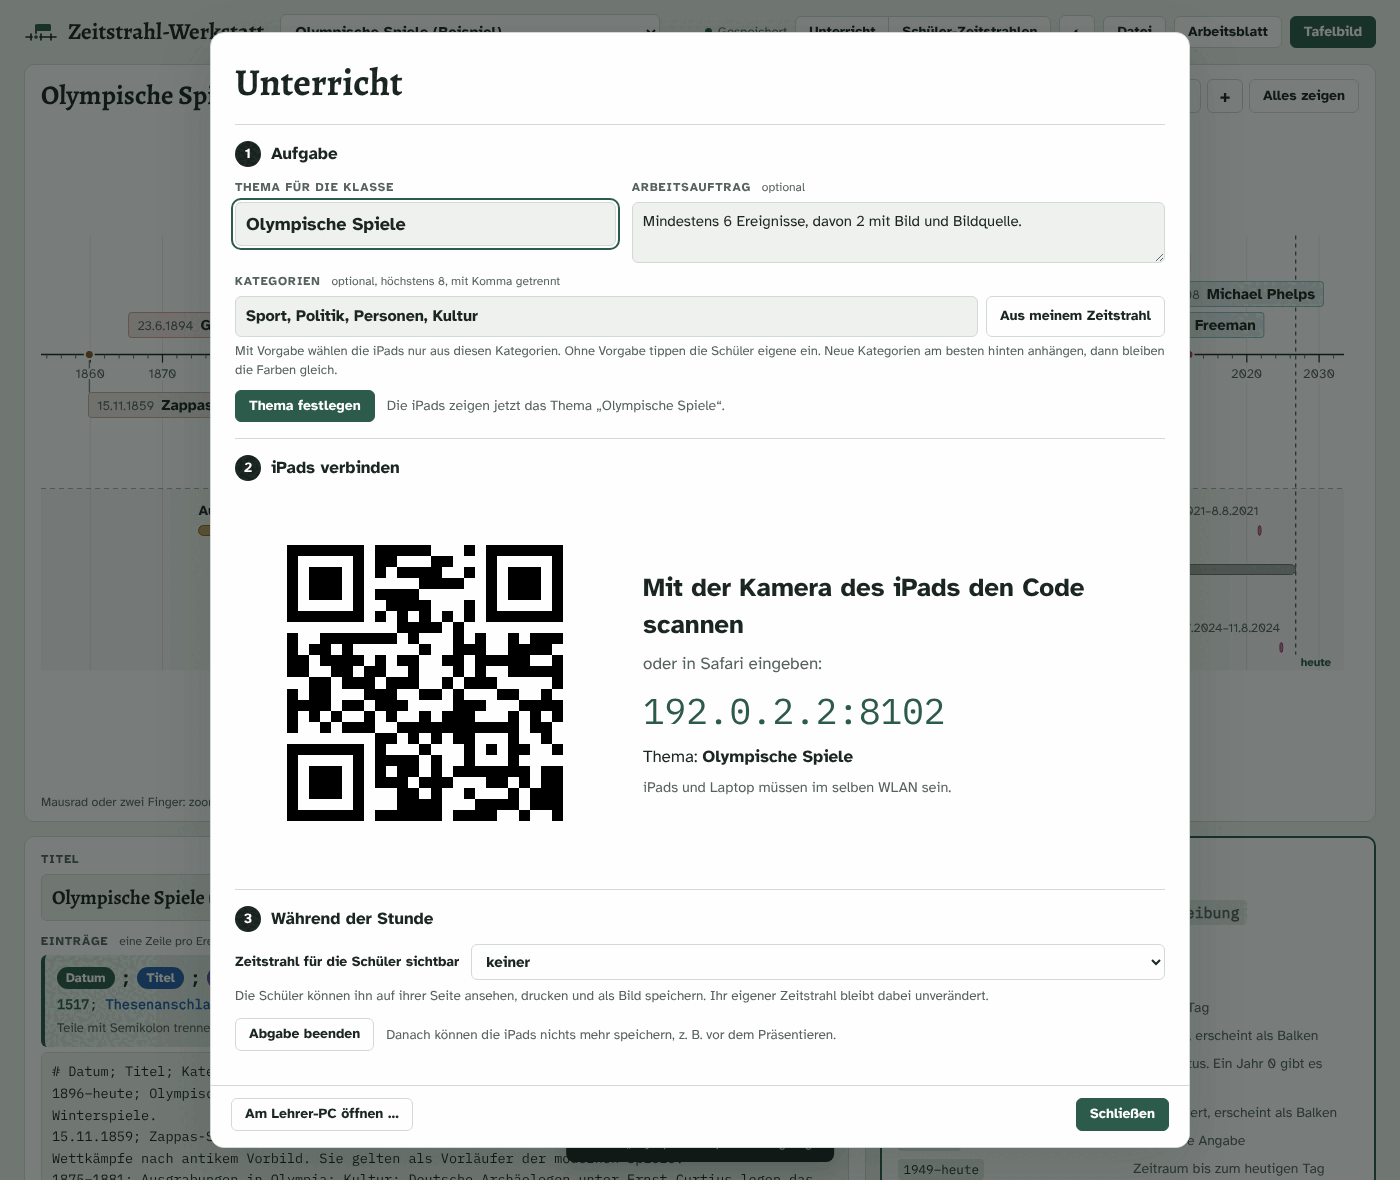
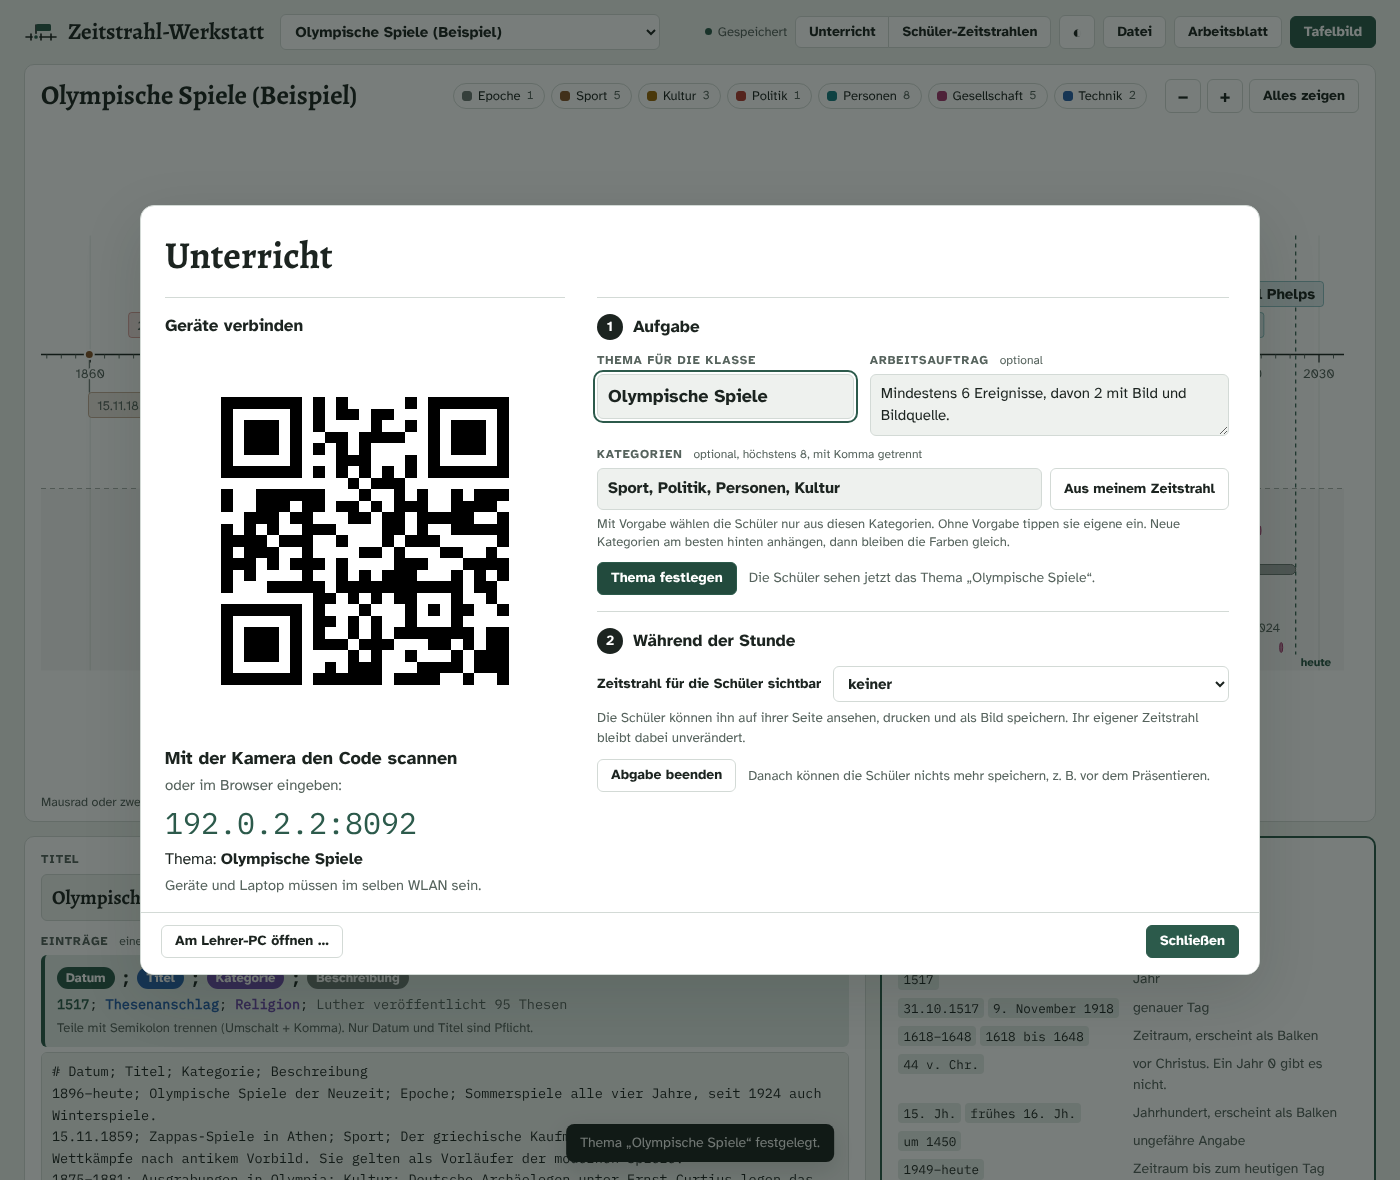
Unterricht: QR-Code fest in einer linken Spalte, Texte geräteneutral
Der QR-Code stand unter der Aufgabe und war beim Öffnen oft nur halb
zu sehen, schon bei 1920×1080 mit Skalierung. Jetzt stehen QR-Code,
Adresse, Thema und WLAN-Hinweis links fest, Aufgabe und „Während der
Stunde“ scrollen rechts. In schmalen Fenstern steht alles untereinander,
der Code zuerst. Die scrollende Spalte schneidet den Fokusrahmen der
Felder nicht mehr ab.

Die Texte nennen keine iPads und kein Safari mehr („Geräte verbinden“,
„im Browser eingeben“, „die Schüler“). README-Text und -Bild angepasst.

Claude-Session: https://claude.ai/code/session_01RTf6zZnb2jjZWV9wELwaxo

diff --git a/index.html b/index.html
@@ -211,61 +211,65 @@
   </div>
 </dialog>
 
-<dialog id="connect" class="connect" aria-labelledby="connect-title">
+<dialog id="connect" class="connect unterricht" aria-labelledby="connect-title">
   <h2 id="connect-title">Unterricht</h2>
-  <section class="connect-part" aria-labelledby="part-aufgabe">
-    <h3 id="part-aufgabe"><span class="part-num">1</span> Aufgabe</h3>
-    <form class="task-form" id="task-form">
-      <div class="field">
-        <label for="task-thema">Thema für die Klasse</label>
-        <input id="task-thema" type="text" maxlength="140" autocomplete="off" placeholder="z. B. Reformation">
-      </div>
-      <div class="field">
-        <label for="task-auftrag">Arbeitsauftrag <span class="label-note">optional</span></label>
-        <textarea id="task-auftrag" rows="2" maxlength="1000" placeholder="z. B. Mindestens 6 Ereignisse, davon 2 mit Bild und Bildquelle."></textarea>
-      </div>
-      <div class="field task-kat">
-        <label for="task-kategorien">Kategorien <span class="label-note">optional, höchstens 8, mit Komma getrennt</span></label>
-        <div class="task-kat-row">
-          <input id="task-kategorien" type="text" maxlength="400" autocomplete="off" placeholder="z. B. Politik, Religion, Personen, Bauwerke">
-          <button type="button" class="btn" id="task-kat-uebernehmen">Aus meinem Zeitstrahl</button>
+  <div class="unterricht-body">
+    <section class="connect-part connect-ipads" aria-labelledby="part-ipads">
+      <h3 id="part-ipads">Geräte verbinden</h3>
+      <div class="connect-grid" id="connect-grid">
+        <div id="connect-qr" class="connect-qr"></div>
+        <div class="connect-text">
+          <p class="connect-step">Mit der Kamera den Code scannen</p>
+          <p class="connect-or">oder im Browser eingeben:</p>
+          <p class="connect-url" id="connect-url"></p>
+          <p class="connect-thema">Thema: <strong id="connect-thema"></strong></p>
+          <p class="connect-alt" id="connect-alt" hidden></p>
+          <p class="connect-hint">Geräte und Laptop müssen im selben WLAN sein.</p>
         </div>
-        <span class="note">Mit Vorgabe wählen die iPads nur aus diesen Kategorien. Ohne Vorgabe tippen die Schüler eigene ein. Neue Kategorien am besten hinten anhängen, dann bleiben die Farben gleich.</span>
       </div>
-      <div class="task-actions">
-        <button type="submit" class="btn primary">Thema festlegen</button>
-        <span class="task-state" id="task-state" role="status"></span>
-      </div>
-    </form>
-  </section>
-  <section class="connect-part" aria-labelledby="part-ipads">
-    <h3 id="part-ipads"><span class="part-num">2</span> iPads verbinden</h3>
-    <div class="connect-grid" id="connect-grid">
-      <div id="connect-qr" class="connect-qr"></div>
-      <div class="connect-text">
-        <p class="connect-step">Mit der Kamera des iPads den Code scannen</p>
-        <p class="connect-or">oder in Safari eingeben:</p>
-        <p class="connect-url" id="connect-url"></p>
-        <p class="connect-thema">Thema: <strong id="connect-thema"></strong></p>
-        <p class="connect-alt" id="connect-alt" hidden></p>
-        <p class="connect-hint">iPads und Laptop müssen im selben WLAN sein.</p>
-      </div>
+      <p id="connect-none" class="connect-none" hidden>Der Laptop ist mit keinem Netzwerk verbunden. Bitte mit dem WLAN verbinden und den Dialog erneut öffnen.</p>
+    </section>
+    <div class="unterricht-side">
+      <section class="connect-part" aria-labelledby="part-aufgabe">
+        <h3 id="part-aufgabe"><span class="part-num">1</span> Aufgabe</h3>
+        <form class="task-form" id="task-form">
+          <div class="field">
+            <label for="task-thema">Thema für die Klasse</label>
+            <input id="task-thema" type="text" maxlength="140" autocomplete="off" placeholder="z. B. Reformation">
+          </div>
+          <div class="field">
+            <label for="task-auftrag">Arbeitsauftrag <span class="label-note">optional</span></label>
+            <textarea id="task-auftrag" rows="2" maxlength="1000" placeholder="z. B. Mindestens 6 Ereignisse, davon 2 mit Bild und Bildquelle."></textarea>
+          </div>
+          <div class="field task-kat">
+            <label for="task-kategorien">Kategorien <span class="label-note">optional, höchstens 8, mit Komma getrennt</span></label>
+            <div class="task-kat-row">
+              <input id="task-kategorien" type="text" maxlength="400" autocomplete="off" placeholder="z. B. Politik, Religion, Personen, Bauwerke">
+              <button type="button" class="btn" id="task-kat-uebernehmen">Aus meinem Zeitstrahl</button>
+            </div>
+            <span class="note">Mit Vorgabe wählen die Schüler nur aus diesen Kategorien. Ohne Vorgabe tippen sie eigene ein. Neue Kategorien am besten hinten anhängen, dann bleiben die Farben gleich.</span>
+          </div>
+          <div class="task-actions">
+            <button type="submit" class="btn primary">Thema festlegen</button>
+            <span class="task-state" id="task-state" role="status"></span>
+          </div>
+        </form>
+      </section>
+      <section class="connect-part" aria-labelledby="part-stunde">
+        <h3 id="part-stunde"><span class="part-num">2</span> Während der Stunde</h3>
+        <div class="freigabe-row">
+          <label for="task-freigabe">Zeitstrahl für die Schüler sichtbar</label>
+          <select id="task-freigabe"></select>
+          <span class="note">Die Schüler können ihn auf ihrer Seite ansehen, drucken und als Bild speichern. Ihr eigener Zeitstrahl bleibt dabei unverändert.</span>
+        </div>
+        <div class="sperre-row">
+          <button type="button" class="btn" id="btn-sperre">Abgabe beenden</button>
+          <span class="note">Danach können die Schüler nichts mehr speichern, z. B. vor dem Präsentieren.</span>
+        </div>
+        <p class="sperre-note" id="sperre-note" hidden>Die Schüler können gerade nichts mehr speichern. Zum Weiterarbeiten auf „Bearbeiten wieder erlauben“ klicken.</p>
+      </section>
     </div>
-    <p id="connect-none" class="connect-none" hidden>Der Laptop ist mit keinem Netzwerk verbunden. Bitte mit dem WLAN verbinden und den Dialog erneut öffnen.</p>
-  </section>
-  <section class="connect-part" aria-labelledby="part-stunde">
-    <h3 id="part-stunde"><span class="part-num">3</span> Während der Stunde</h3>
-    <div class="freigabe-row">
-      <label for="task-freigabe">Zeitstrahl für die Schüler sichtbar</label>
-      <select id="task-freigabe"></select>
-      <span class="note">Die Schüler können ihn auf ihrer Seite ansehen, drucken und als Bild speichern. Ihr eigener Zeitstrahl bleibt dabei unverändert.</span>
-    </div>
-    <div class="sperre-row">
-      <button type="button" class="btn" id="btn-sperre">Abgabe beenden</button>
-      <span class="note">Danach können die iPads nichts mehr speichern, z. B. vor dem Präsentieren.</span>
-    </div>
-    <p class="sperre-note" id="sperre-note" hidden>Die iPads können gerade nichts mehr speichern. Zum Weiterarbeiten auf „Bearbeiten wieder erlauben“ klicken.</p>
-  </section>
+  </div>
   <div class="review-foot">
     <button type="button" class="btn ghost zugang-only" id="connect-zugang" hidden>Am Lehrer-PC öffnen …</button>
     <button type="button" class="btn primary" id="connect-close">Schließen</button>

diff --git a/css/style.css b/css/style.css
@@ -898,6 +898,43 @@ body.present .detail-img { max-height: 46vh; }
   color: var(--sheet);
   background: var(--ink);
 }
+
+/* Links steht der QR-Code fest und ist beim Öffnen ganz zu sehen, rechts scrollen
+   Aufgabe und „Während der Stunde“. Schmale oder sehr niedrige Fenster: alles
+   untereinander, der QR-Code zuerst. */
+.unterricht { width: min(1120px, calc(100% - 32px)); }
+.unterricht[open] { display: flex; flex-direction: column; overflow: hidden; }
+.unterricht h2 { flex: none; }
+.unterricht-body {
+  flex: 1 1 auto;
+  min-height: 0;
+  display: grid;
+  grid-template-columns: minmax(0, 400px) minmax(0, 1fr);
+  gap: 32px;
+}
+/* 4px Luft links, sonst schneidet die scrollende Spalte den Fokusrahmen der Felder ab */
+.unterricht-side { min-height: 0; overflow-y: auto; margin-left: -4px; padding: 0 6px 0 4px; container-type: inline-size; }
+.connect-ipads { display: flex; flex-direction: column; min-height: 0; overflow-y: auto; }
+.connect-ipads .connect-grid { flex: 1 1 auto; min-height: 0; display: flex; flex-direction: column; align-items: stretch; gap: 14px; }
+/* Der Code nimmt die ganze freie Höhe der Spalte ein, die Texte darunter bleiben sichtbar. */
+.connect-ipads .connect-qr { flex: 0 1 380px; min-height: 150px; max-width: none; padding: 0; background: none; }
+.connect-ipads .connect-qr svg { width: 100%; height: 100%; }
+.connect-ipads .connect-text { flex: none; gap: 4px; }
+.connect-ipads .connect-step { font-size: 18px; }
+.connect-ipads .connect-or { font-size: 15px; }
+.connect-ipads .connect-url { font-size: clamp(22px, 2.4vw, 30px); white-space: normal; overflow-wrap: anywhere; }
+.connect-ipads .connect-thema { font-size: 16px; }
+.unterricht .review-foot { flex: none; margin-top: 0; }
+@container (max-width: 560px) {
+  .unterricht-side .task-form { grid-template-columns: minmax(0, 1fr); }
+}
+@media (max-width: 860px), (max-height: 520px) {
+  .unterricht[open] { display: block; overflow-y: auto; }
+  .unterricht-body { display: block; }
+  .unterricht-side, .connect-ipads { overflow: visible; margin-left: 0; padding: 0; }
+  .connect-ipads .connect-qr { flex: none; width: min(100%, 340px); }
+  .connect-ipads .connect-qr svg { height: auto; }
+}
 .sperre-row { display: flex; flex-wrap: wrap; align-items: center; gap: 6px 12px; }
 .sperre-row .note { margin: 0; font-size: 13.5px; color: var(--ink-soft); }
 

diff --git a/js/app.js b/js/app.js
@@ -426,7 +426,7 @@
       try {
         await api('api/abgaben/' + a.id + '/rueckmeldung', { method: 'PUT', body: JSON.stringify({ rueckmeldung: ta.value.trim() }) });
         a.rueckmeldung = ta.value.trim();
-        state.textContent = a.rueckmeldung ? 'Gespeichert. Die Gruppe sieht sie auf dem iPad.' : 'Rückmeldung entfernt.';
+        state.textContent = a.rueckmeldung ? 'Gespeichert. Die Gruppe sieht sie auf ihrem Gerät.' : 'Rückmeldung entfernt.';
       } catch (e) {
         state.textContent = e.message;
       } finally {
@@ -717,9 +717,9 @@
     const t = server.task.thema;
     const zu = !!server.task.gesperrt;
     $('task-state').textContent = zu
-      ? 'Die Abgabe ist beendet. Die iPads können nichts mehr speichern.'
+      ? 'Die Abgabe ist beendet. Die Schüler können nichts mehr speichern.'
       : t
-      ? `Die iPads zeigen jetzt das Thema „${t}“.`
+      ? `Die Schüler sehen jetzt das Thema „${t}“.`
       : 'Noch kein Thema festgelegt. Ohne Thema wählen die Schüler selbst eins.';
     $('connect-thema').textContent = t || 'frei wählbar';
     $('btn-sperre').textContent = zu ? 'Bearbeiten wieder erlauben' : 'Abgabe beenden';
@@ -733,7 +733,7 @@
     try {
       server.task = await api('api/aufgabe', { method: 'PUT', body: JSON.stringify({ gesperrt: zu }) });
       renderTaskState();
-      toast(zu ? 'Abgabe beendet. Die iPads können nichts mehr speichern.' : 'Die Klasse kann wieder weiterarbeiten.');
+      toast(zu ? 'Abgabe beendet. Die Schüler können nichts mehr speichern.' : 'Die Klasse kann wieder weiterarbeiten.');
     } catch (e) {
       toast(e.message);
     }
@@ -784,7 +784,7 @@
     try {
       server.task = await api('api/aufgabe', { method: 'PUT', body: JSON.stringify({ freigabe: id }) });
       const t = state.timelines.find((x) => x.id === id);
-      toast(t ? `Die iPads können jetzt „${displayName(t)}“ ansehen.` : 'Die iPads zeigen keinen Zeitstrahl von dir mehr.');
+      toast(t ? `Die Schüler können jetzt „${displayName(t)}“ ansehen.` : 'Die Schüler sehen keinen Zeitstrahl von dir mehr.');
     } catch (e) {
       toast(e.message);
       renderFreigabe();

diff --git a/README.md b/README.md
@@ -27,11 +27,11 @@ Der Laptop der Lehrkraft ist dabei der Server. Es gibt keine Cloud und keine Kon
    `npm start` funktioniert genauso.
 
    Es öffnet sich ein Fenster mit den Adressen, und der Browser zeigt die Lehrkraft-Ansicht unter `http://localhost:8080`. **Das Fenster während der Stunde offen lassen.**
-2. **Thema vorgeben:** Auf **Unterricht** klicken und unter **Aufgabe** das Thema eintragen (z. B. „Reformation“), auf Wunsch einen kurzen Arbeitsauftrag und bis zu acht Kategorien (z. B. „Personen, Religion, Politik“), dann **Thema festlegen** klicken. Kategorien lassen sich später ergänzen, die iPads übernehmen sie nach spätestens 20 Sekunden. Darunter, bei **iPads verbinden**, steht ein großer QR-Code für den Beamer.
+2. **Thema vorgeben:** Auf **Unterricht** klicken und unter **Aufgabe** das Thema eintragen (z. B. „Reformation“), auf Wunsch einen kurzen Arbeitsauftrag und bis zu acht Kategorien (z. B. „Personen, Religion, Politik“), dann **Thema festlegen** klicken. Kategorien lassen sich später ergänzen, die iPads übernehmen sie nach spätestens 20 Sekunden. Links daneben, bei **Geräte verbinden**, steht ein großer QR-Code für den Beamer.
 3. **iPads verbinden:** Die Schülerinnen und Schüler scannen den QR-Code mit der Kamera-App und landen auf der Schülerseite. Dort stehen schon das Thema und der Arbeitsauftrag.
 4. **Zeitstrahl bauen:** Jede Gruppe trägt ihre Vornamen und auf Wunsch einen Titel ein und legt dann Ereignisse an: Datum, Ereignis, Kategorie, Beschreibung und ein Foto (direkt fotografiert oder aus der Mediathek, die Bildquelle ist dann Pflicht). Hat die Lehrkraft Kategorien vorgegeben, tippt die Gruppe eine davon an, statt selbst eine einzutragen. Das Formular zeigt sofort, wie das Datum verstanden wurde („Erkannt: 24. Oktober 1648 · vor 378 Jahren“). Der eigene Zeitstrahl wächst oben live mit; Antippen eines Ereignisses öffnet es zum Bearbeiten.
 
-   <img src="docs/bilder/ipads-verbinden.png" width="58%" alt="Dialog „Unterricht“ mit den Abschnitten Aufgabe, iPads verbinden mit großem QR-Code und Während der Stunde"> <img src="docs/bilder/schuelerseite.png" width="38%" alt="Schülerseite auf dem iPad: Thema, Arbeitsauftrag, Vornamen der Gruppe und der eigene Zeitstrahl">
+   <img src="docs/bilder/ipads-verbinden.png" width="58%" alt="Dialog „Unterricht“: links der große QR-Code zum Verbinden, rechts Aufgabe und Während der Stunde"> <img src="docs/bilder/schuelerseite.png" width="38%" alt="Schülerseite auf dem iPad: Thema, Arbeitsauftrag, Vornamen der Gruppe und der eigene Zeitstrahl">
 
 5. **Zwischenspeichern:** Beim ersten **Zwischenspeichern** bekommt die Gruppe einen **Code** aus fünf Zeichen (z. B. `K7M2X`), den sie aufschreibt. Danach speichert die Seite alle 15 Sekunden automatisch. In der nächsten Stunde, auch auf einem anderen iPad, tippt die Gruppe den Code unter „Mit eurem Code weiterarbeiten“ ein und macht weiter.
 6. **Abgeben:** Ist der Zeitstrahl fertig, tippt die Gruppe auf **Fertig – abgeben**. Verbessern und erneut abgeben geht jederzeit. Fällt das WLAN aus, sagt die Seite das deutlich; die Eingaben bleiben auf dem iPad und werden gespeichert, sobald die Verbindung wieder da ist. Eine Rückmeldung der Lehrkraft erscheint oben auf der Seite.
